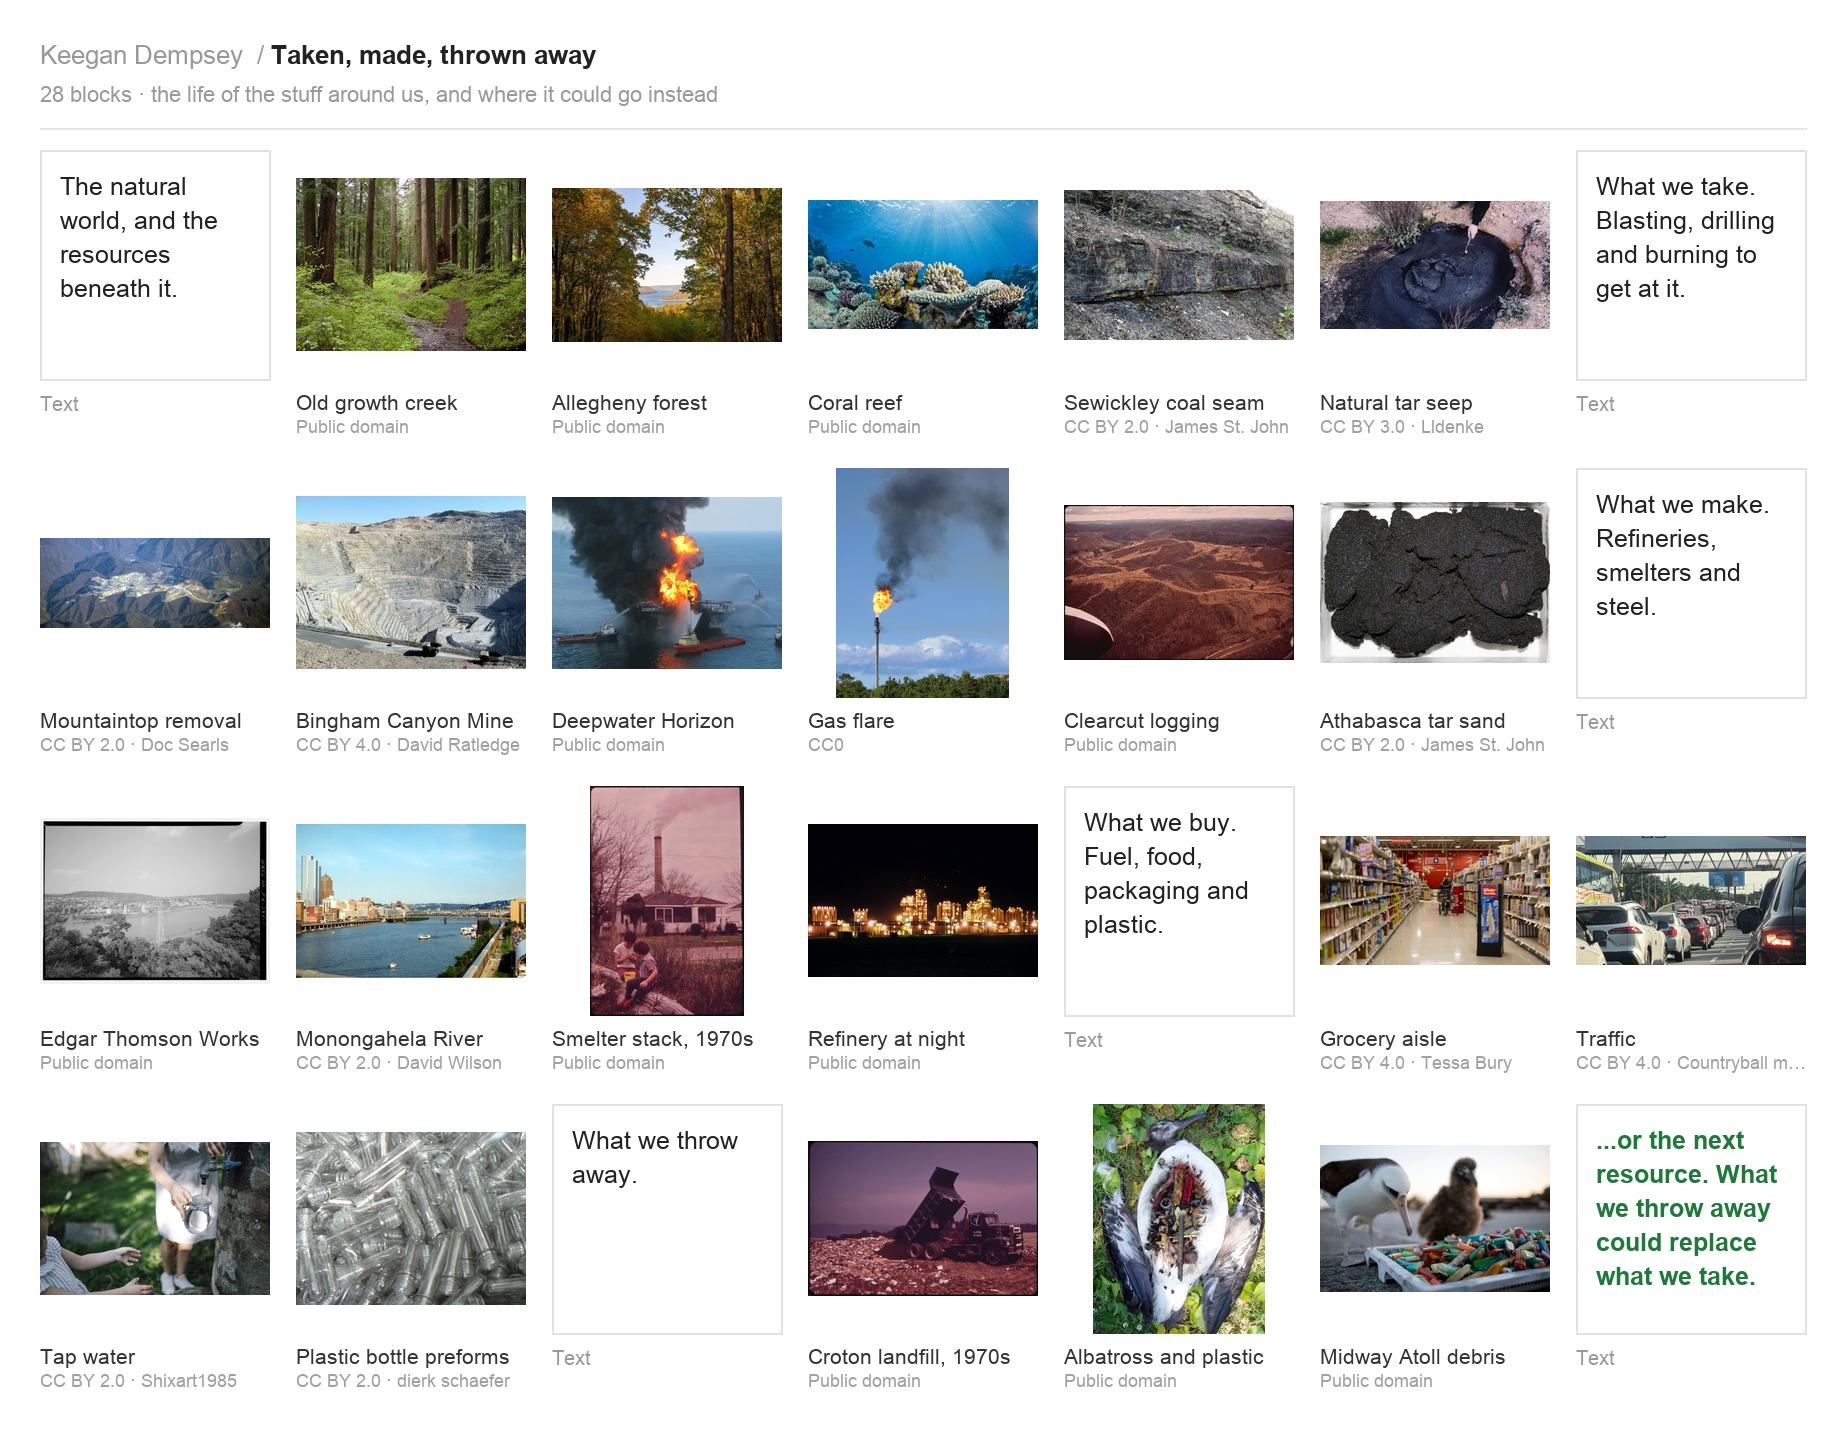
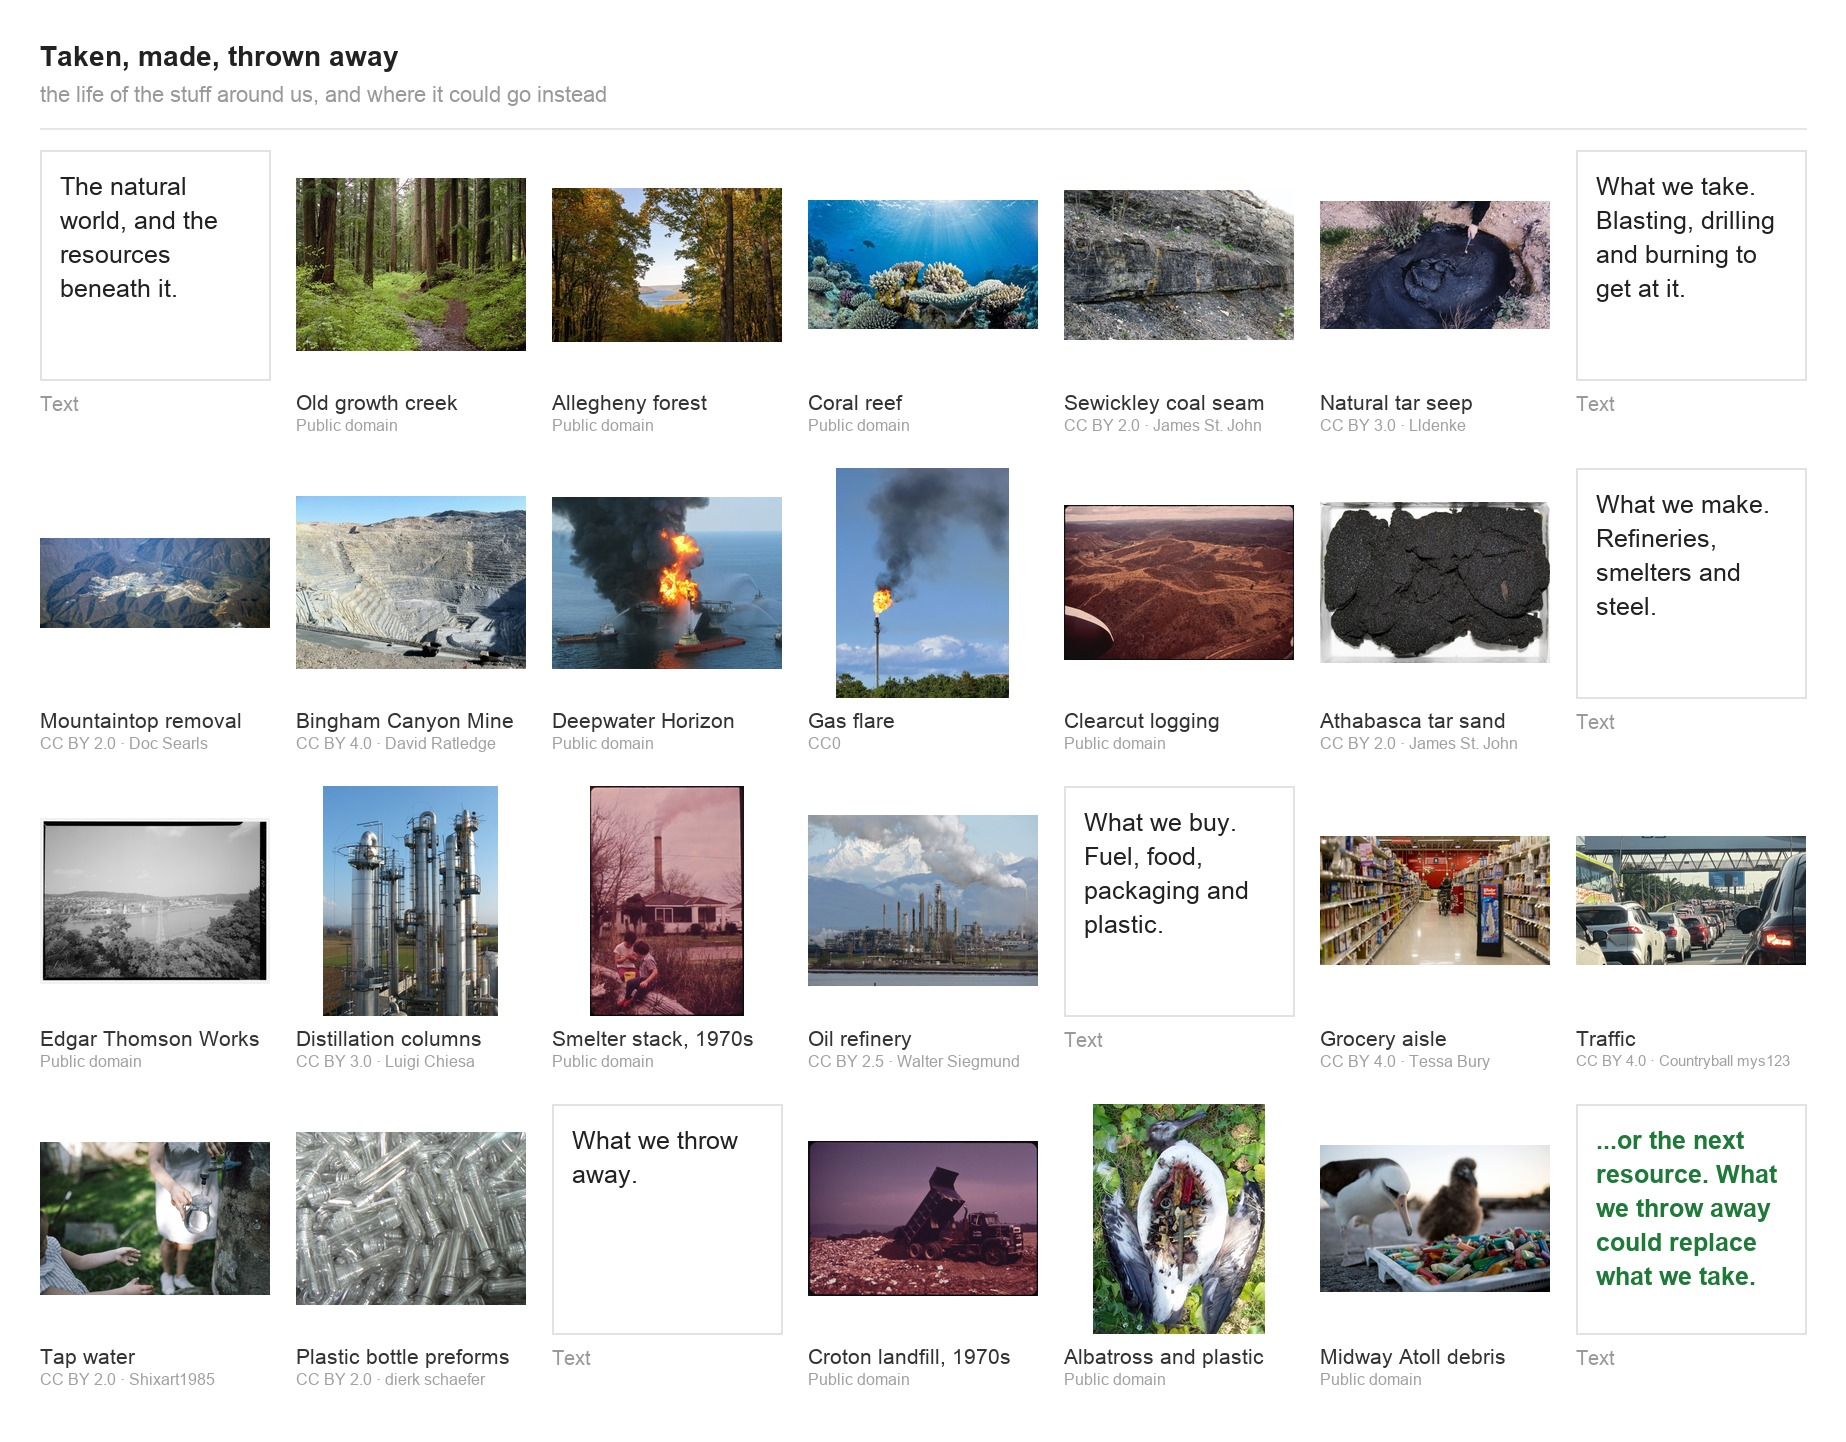
Refine photo grid and expand the cat's answers
Removes the name and block count from the grid header, adds clearer
processing plant photos with full credits and gives the cat answers on
what the research is testing, the waste to fuels skepticism, a technical
version and LaGuardia in the background answer.

diff --git a/index.html b/index.html
@@ -106,7 +106,10 @@ I have worked on over 35 industry projects with clients including the World Bank
     <div class="sub">Pick a question, ask an AI or send her a message.</div>
     <button class="q" data-a="plain">What does she actually do?</button>
     <button class="q" data-a="why">Why waste instead of oil?</button>
+    <button class="q" data-a="prove">What is she trying to prove?</button>
+    <button class="q" data-a="deadend">Isn't waste to fuels a dead end?</button>
     <button class="q" data-a="tool">What does her research tool do?</button>
+    <button class="q" data-a="math">Give me the technical version</button>
     <button class="q" data-a="past">What has she worked on before?</button>
     <div id="kcat-ans" aria-live="polite"></div>
     <div class="lbl">Ask an AI about her work</div>
@@ -128,7 +131,10 @@ I have worked on over 35 industry projects with clients including the World Bank
     plain:"Keegan is a chemical engineer who figures out how towns and cities could turn what they throw away, like sewage, landfill trash and factory exhaust, into the fuels, plastics, fertilizer and power they currently import. The goal is to cut pollution while lowering costs and creating local jobs.",
     why:"Oil and gas have to be found, drilled, shipped and refined, often far away and with a lot of damage along the way. Waste is already here, already collected and usually costs money to get rid of. Turning it into useful products keeps money and jobs local and cuts emissions at the same time.",
     tool:"Her research tool starts by mapping what a region actually has: wastewater plants, landfills, factories, roads and pipelines, all from public records. It then tests which ways of converting that waste would work physically, and compares them on cost, emissions, policy limits and local jobs. Allegheny County around Pittsburgh is the first test case.",
-    past:"Before grad school she spent over 8 years in industry: a hydrogen and clean fuel strategy for Durban, South Africa; a World Bank study on renewables and hydrogen for Chile's isolated grids; a national study on water for hydrogen in Australia; flood protection for New York City subway infrastructure and cost models for an electrolyzer startup."
+    prove:"That the place decides whether a plant works. Most waste to fuel projects are designed as generic plants and then dropped somewhere. She is testing whether designing from what a place already has, its waste, pipes, power, markets and rules, can reliably find the pathways that make sense and honestly show when none do.",
+    deadend:"A lot of people think so, because many projects have failed. Waste is messy and spread out, so collecting it is expensive, small plants lose economies of scale and high profile projects like Fulcrum BioEnergy's Nevada plant ended in bankruptcy. Her argument is that many of those failures came from one size fits all plants in the wrong places, not from the chemistry. A plant that sits next to its waste, shares existing infrastructure and sells into local markets faces very different economics.",
+    math:"Under the hood it is a superstructure optimization problem. From regional data the tool generates a graph of candidate routes: feeds, reactors, separations, recycles, utilities and products. Each route becomes a mixed integer nonlinear program, where binary variables choose units and connections and continuous variables carry flows, compositions, temperatures and duties, all subject to mass, species and energy balances. The objective is total annual cost, meaning annualized capital plus operating cost. Before the expensive solves, cheap lower bounds from structure, stoichiometry and thermodynamics prune any route whose best case cannot beat simply buying the product.",
+    past:"Before grad school she spent over 8 years in industry. She designed mechanical systems for Delta's new terminal at LaGuardia Airport and flood protection for New York City subway infrastructure, was lead analyst on a hydrogen and clean fuel strategy for Durban, South Africa, worked on a World Bank study of renewables and hydrogen for Chile's isolated grids and a national study on water for hydrogen in Australia and built the cost model for an electrolyzer startup."
   };
   var root=document.getElementById('kcat'),btn=document.getElementById('kcat-btn'),ans=document.getElementById('kcat-ans'),hi=document.getElementById('kcat-hi');
   function toggle(o){root.classList.toggle('open',o);btn.setAttribute('aria-expanded',o?'true':'false');}
